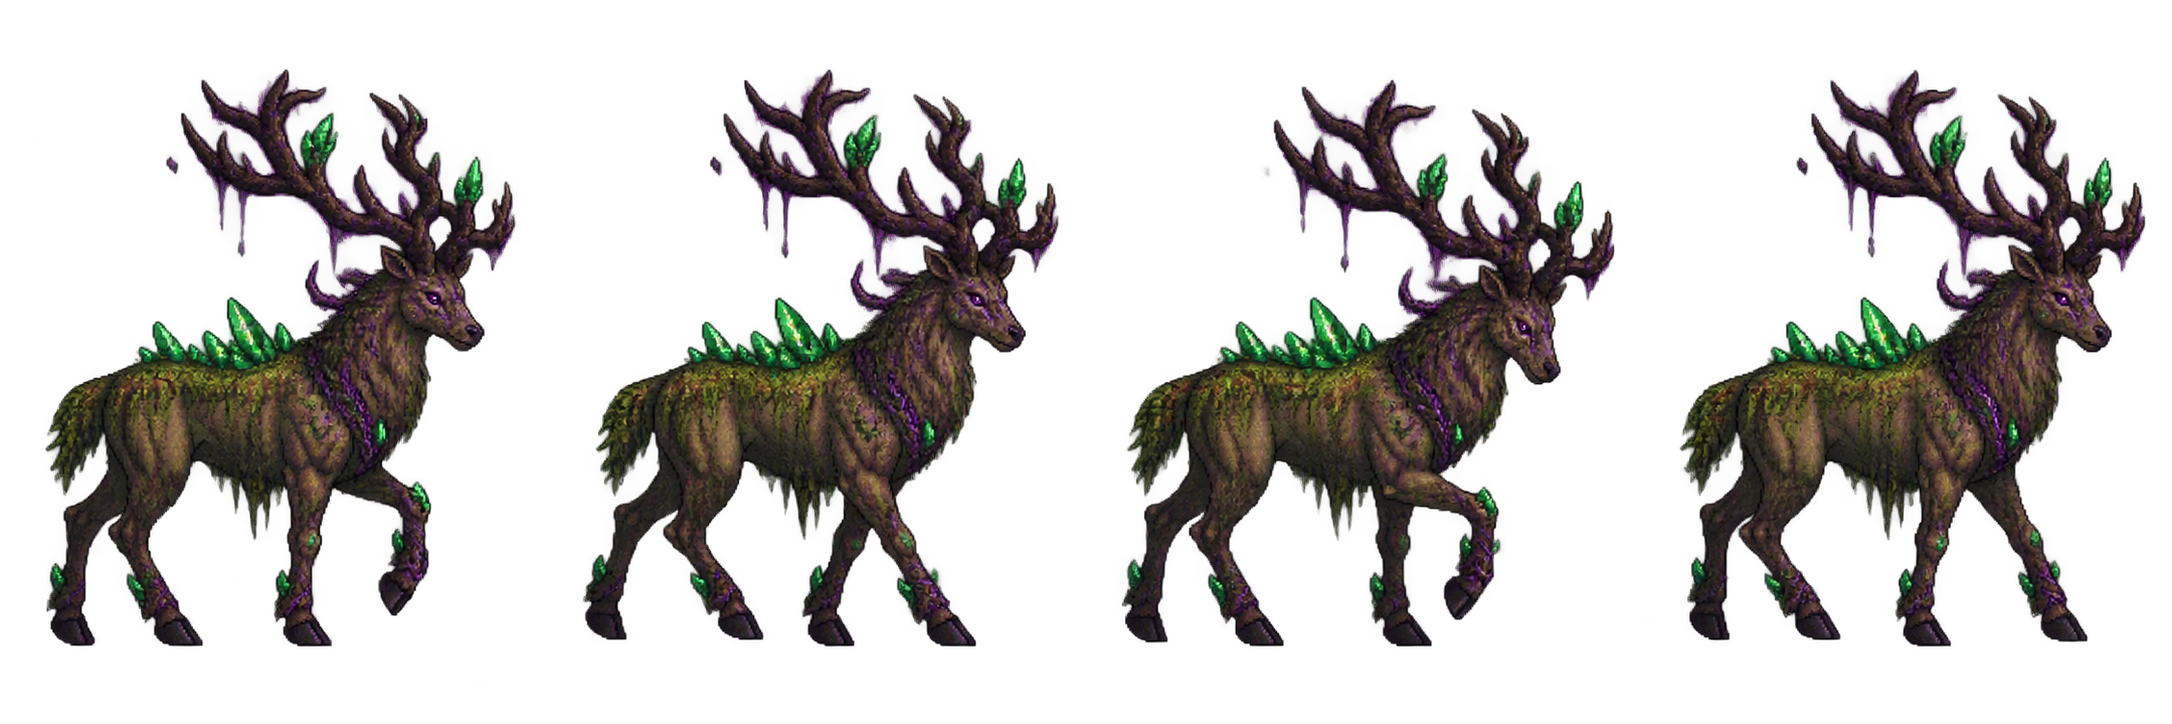
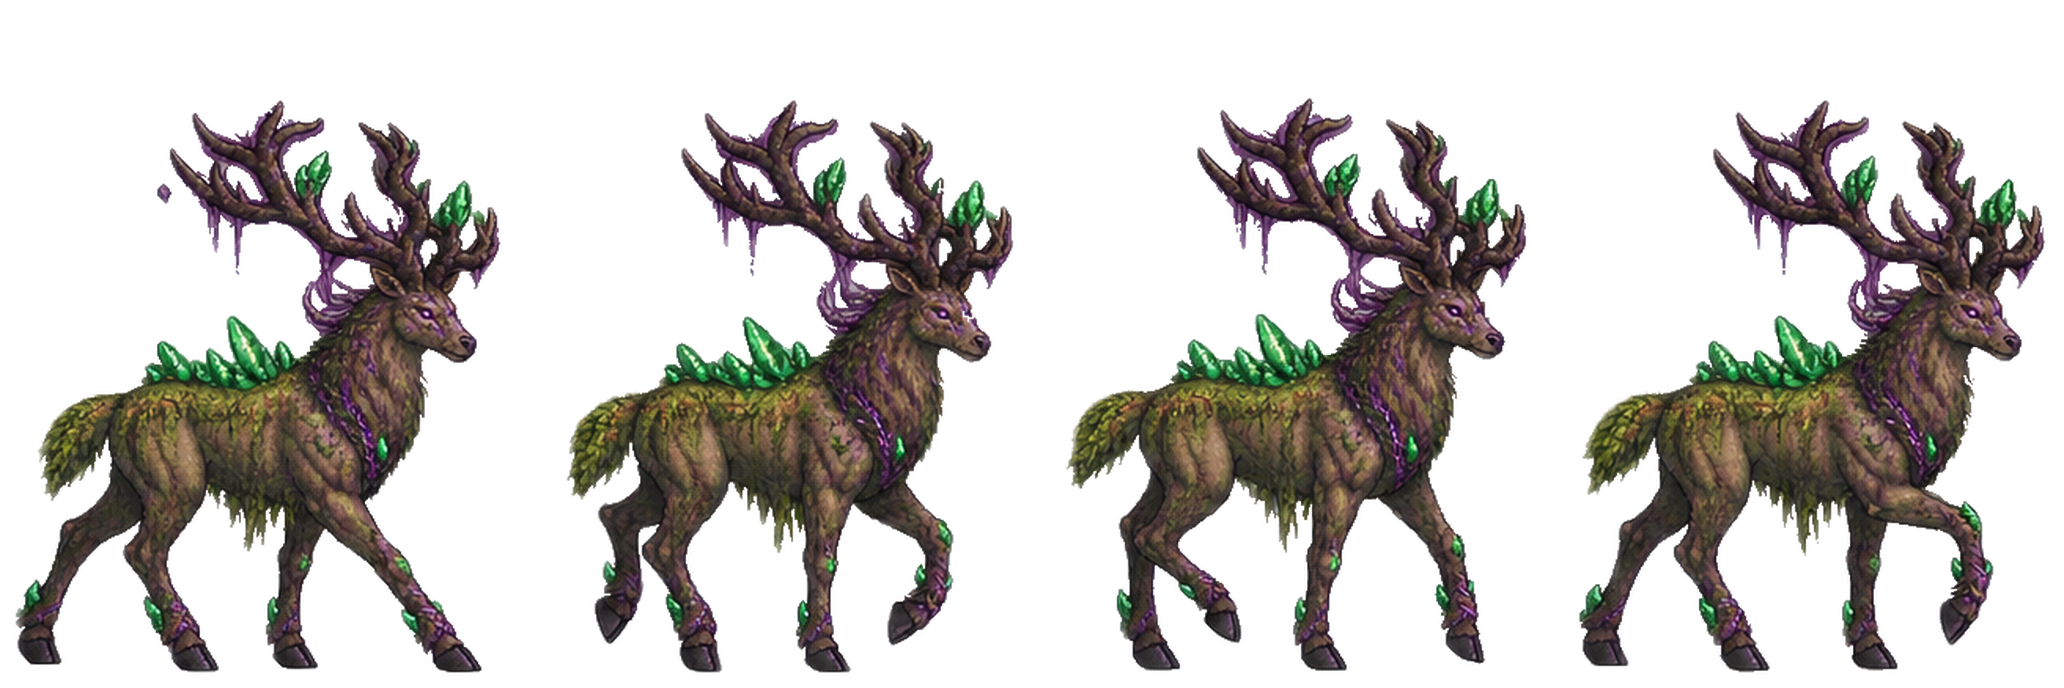
Round 304: the Blight Antler walks and the Storm Moth flies (#84)
The owner's eight-frame animations for Elaris's Blight Antler and Storm Moth
(also their recolored Vespera and Chronospire kin): frames 1, 3, 5 and 7 cut
with one shared window each, at .8s. The stag's leftover grey background halo
is removed first. SPRITE_VERSION 304.

Claude-Session: https://claude.ai/code/session_01XB2RMCaJ1aVVtBjSNk3FhS

diff --git a/assets/elaris-wildlife.js b/assets/elaris-wildlife.js
@@ -18,8 +18,8 @@ Object.assign(enemies,ELARIS_WILDLIFE);
 const WILDLIFE_ART={
  forestFox:{name:'Cinder Fox',sheet:'cinder-fox',cycle:'.8s'}, // Round 303: the owner's eight-frame walk (also the Static Fox and Gearhound, recolored)
  forestHeron:{name:'Drowned Heron',sheet:'drowned-heron',cycle:'1.4s'},
- forestStag:{name:'Blight Antler',sheet:'blight-antler',cycle:'1.2s'},
- forestMoth:{name:'Storm Moth',sheet:'storm-moth',cycle:'.7s'},
+ forestStag:{name:'Blight Antler',sheet:'blight-antler',cycle:'.8s'}, // Round 304: the owner's eight-frame walk (also the Rimeglass and Pendulum Stags, recolored)
+ forestMoth:{name:'Storm Moth',sheet:'storm-moth',cycle:'.8s'}, // Round 304: the owner's eight-frame flight (also the Tempest and Tick Moths, recolored)
  // Round 234: Neon Aftermath's Briar Sentinel is animated: stand, shield up, slash (poses: sun-revenant.js),
  // and a walk on the map. The Arc Sentinel and the Brass Sentry borrow it.
  vineguard:{name:'Briar Sentinel',sheet:'city/briar-sentinel',cycle:'1.6s',poses:{attack:2,hurt:1,walk:'city/briar-sentinel-walk'}},
@@ -45,7 +45,7 @@ const cityMonsterArt=monsterArt;
 // Round 196: a sheet name with a folder ('sky/zenith-roc') is read from assets/monsters/<folder>/;
 // big:true draws it in the larger boss box.
 // Round 200: bump SPRITE_VERSION when sheets are re-cut, so browsers fetch the new images.
-const SPRITE_VERSION='303';
+const SPRITE_VERSION='304';
 function wildlifeSheetUrl(sheet){return 'assets/monsters/'+(sheet.includes('/')?sheet:'elaris/'+sheet)+'.png?v='+SPRITE_VERSION}
 monsterArt=function(id){const animal=ELARIS_WILDLIFE[id]||WILDLIFE_ART[id];if(!animal)return cityMonsterArt(id);return '<span class="monster-sprite wildlife-sprite'+(animal.big?' bloom-tyrant':'')+'" role="img" aria-label="'+animal.name+'" style="background-image:url('+wildlifeSheetUrl(animal.sheet)+');--wildlife-cycle:'+animal.cycle+'"></span>'};
 // Round 249: a boss node's sprite box was square (142px, sized for Neon Aftermath's boss pictures), which

diff --git a/index.html b/index.html
@@ -553,7 +553,7 @@ if(localStorage.getItem(SAVE_KEY))$('resumeBtn').classList.remove('hidden');
 addEventListener('resize',()=>{fitWorld();fitMap();renderTalentConnectors()});fitWorld();
 requestAnimationFrame(loop);
 </script>
-<script src="assets/elaris-wildlife.js?v=round303"></script>
+<script src="assets/elaris-wildlife.js?v=round304"></script>
 <script src="assets/solaris-data.js?v=round232"></script>
 <script src="assets/expansion.js?v=round291"></script>
 <script src="assets/encounter-depth.js?v=round280"></script>

diff --git a/CHANGES.md b/CHANGES.md
@@ -3496,6 +3496,30 @@ Playtest of Neon Aftermath's three relics (Moon Lens 5,4; Ember Sigil 5,7; Briar
 - Talent descriptions list the per-rank values. Tests updated: round76, chronospire,
   talent-matrix, card-variety, plating-armor.
 
+## Round 304: the Blight Antler walks and the Storm Moth flies
+
+The owner sent eight-frame animations for two more Elaris creatures. Each is cut like Rounds 299–303: frames 1, 3, 5
+and 7, one shared window, then padded. The sources are kept in `assets/monsters/elaris/src/`.
+
+| Creature | Animation | Source | Cycle |
+|---|---|---|---|
+| **Blight Antler** (`elarisAntler`, art `forestStag`) | a mossy stag with green crystals and purple-corrupted antlers walks | `blight-antler-walk8.png` | 1.2s → .8s |
+| **Storm Moth** (`elarisMoth`, art `forestMoth`) | a violet and cyan moth flies with coordinated wingbeats and trailing streamers | `storm-moth-flight8.png` | .7s → .8s |
+
+**Cleaning the stag:** the stag's source frames carried a semi-transparent grey fill between the antler tines, left over
+from removing the generator's background. It showed as a pale halo on the map. Before cutting, that grey is removed in
+two passes:
+1. a flood fill in from the empty background, through faint low-saturation pixels;
+2. any remaining grey patch of 40+ pixels (pockets enclosed by the drips).
+
+The crystals' small highlights and the purple drips are untouched. An earlier per-pixel pass punched holes in them and
+was dropped.
+
+Both sheets are shared art, so Vespera's Rimeglass Stag and Tempest Moth and Chronospire's Pendulum Stag and Tick Moth
+use them too, still recolored. They were checked in Chromium.
+
+`SPRITE_VERSION` 304. New `tests/forest-anim.test.cjs`.
+
 ## Round 303: the Cinder Fox walks
 
 - The owner sent an eight-frame walk for Elaris's Cinder Fox (`elarisFox`): a charcoal fox with ember crystals and a

diff --git a/CLAUDE.md b/CLAUDE.md
@@ -4,7 +4,7 @@ Aethercede is a browser card-battler/exploration game in vanilla JS with no
 build step. Open `index.html` directly. `compendium.html` is the card
 gallery; `arena.html` is a standalone prototype and is left untouched.
 
-**Read `CHANGES.md` first.** Every round of work (Round 1 to Round 303) is
+**Read `CHANGES.md` first.** Every round of work (Round 1 to Round 304) is
 logged there with its reasoning. Add a new `## Round N:` entry for each
 change set.
 
